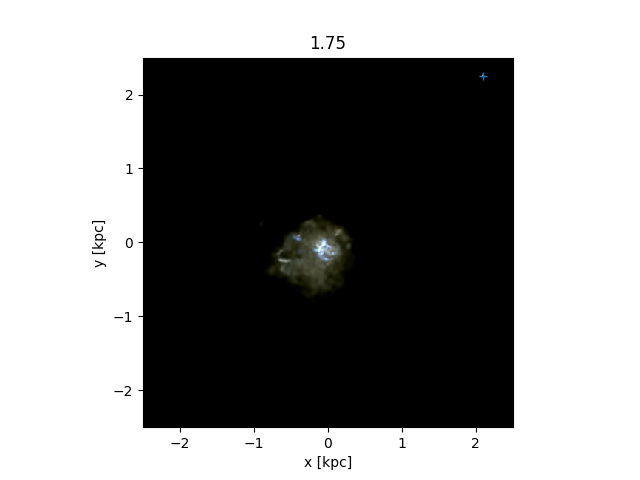
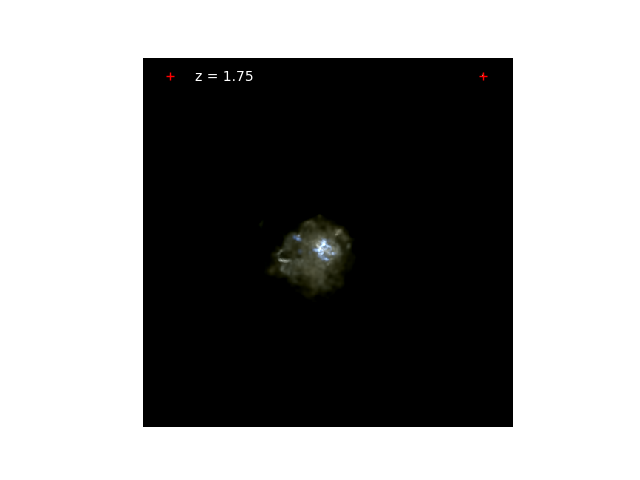
cptmarvel merger

diff --git a/CptMarvel_Merger/subplot.py b/CptMarvel_Merger/subplot.py
@@ -2,22 +2,29 @@ import matplotlib.pyplot as plt
 import matplotlib.image as mpimg
 
 
-img1= mpimg.imread('ID= 89425759,z= 3.8.png')
-img2= mpimg.imread('ID= 89425759,z= 1.5.png')
-img3= mpimg.imread('ID= 89425759,z= 1.75.png')
+img1= mpimg.imread('ID= 89425759,z= 3.0.png')
+img2= mpimg.imread('ID= 89425759,z= 2.65.png')
+img3= mpimg.imread('ID= 89425759,z= 2.29.png')
 
-img4= mpimg.imread('ID= 89425759,z= 2.29.png')
-img5= mpimg.imread('ID= 89425759,z= 2.65.png')
-img6= mpimg.imread('ID= 89425759,z= 3.13.png')
+img4= mpimg.imread('ID= 89425759,z= 1.75.png')
+img5= mpimg.imread('ID= 89425759,z= 1.5.png')
+img6= mpimg.imread('ID= 89425759,z= 1.4.png')
 
+#(ax4,ax5,ax6)
 
-
-fig,((ax1, ax2,ax3),(ax4,ax5,ax6))= plt.subplots(2,3,sharex=True, sharey=True)
+fig,((ax1, ax2,ax3))= plt.subplots(1,3, figsize=(10,10))
 ax1.imshow(img1)
+ax1.axis('off')
 ax2.imshow(img2)
+ax2.axis('off')
 ax3.imshow(img3)
-ax4.imshow(img4)
-ax5.imshow(img5)
-ax6.imshow(img6)
+ax3.axis('off')
+#ax4.imshow(img4)
+#ax4.axis('off')
+#ax5.imshow(img5)
+#ax5.axis('off')
+#ax6.imshow(img6)
+#ax6.axis('off')
+fig.tight_layout()
 
-fig.savefig('merger.png')
+fig.savefig('merger1.png')
